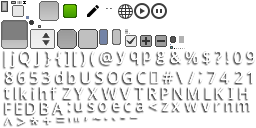
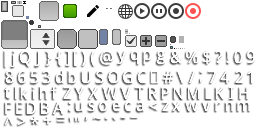
Fixed timer, added record camera interface

Changed region(s): [[0.6562, 0.0, 0.8125, 0.1562]]

diff --git a/core/src/gaia/cu9/ari/gaiaorbit/interfce/FullGui.java b/core/src/gaia/cu9/ari/gaiaorbit/interfce/FullGui.java
@@ -93,7 +93,7 @@ public class FullGui implements IGui, IObserver {
     protected TextField inputPace, searchBox;
     protected Button plus, minus;
     protected ImageButton dateEdit;
-    protected OwnImageButton playstop;
+    protected OwnImageButton playstop, recCamera;
     protected OwnScrollPane focusListScrollPane;
     protected Slider fieldOfView, starBrightness, bloomEffect, ambientLight, cameraSpeed, turnSpeed, rotateSpeed;
     protected CheckBox focusLock, transitColor, onlyObservedStars, computeGaiaScan, lensFlare;
@@ -206,8 +206,27 @@ public class FullGui implements IGui, IObserver {
 	VerticalGroup cameraGroup = new VerticalGroup().align(Align.left);
 
 	Label cameraLabel = new Label(txt("gui.camera"), skin, "header");
-	Label modeLabel = new Label(txt("gui.camera.mode"), skin, "default");
 
+	// Record camera button
+
+	recCamera = new OwnImageButton(skin, "rec");
+	recCamera.setName("rec");
+	recCamera.setChecked(GlobalConf.runtime.RECORD_CAMERA);
+	recCamera.addListener(new EventListener() {
+	    @Override
+	    public boolean handle(Event event) {
+		if (event instanceof ChangeEvent) {
+		    EventManager.getInstance().post(Events.RECORD_CAMERA_CMD, recCamera.isChecked(), true);
+		    return true;
+		}
+		return false;
+	    }
+	});
+	Label recTooltip = new Label(txt("gui.tooltip.reccamera"), skin, "tooltip");
+	tooltips.add(recTooltip);
+	recCamera.addListener(new Tooltip<Label>(recTooltip));
+
+	Label modeLabel = new Label(txt("gui.camera.mode"), skin, "default");
 	int cameraModes = CameraMode.values().length;
 	String[] cameraOptions = new String[cameraModes];
 	for (int i = 0; i < cameraModes; i++) {
@@ -358,7 +377,12 @@ public class FullGui implements IGui, IObserver {
 	    }
 	});
 
-	cameraGroup.addActor(cameraLabel);
+	HorizontalGroup camLabelGroup = new HorizontalGroup();
+	camLabelGroup.space(HPADDING);
+	camLabelGroup.addActor(cameraLabel);
+	camLabelGroup.addActor(recCamera);
+	cameraGroup.addActor(camLabelGroup);
+
 	cameraGroup.addActor(modeLabel);
 	cameraGroup.addActor(cameraMode);
 	cameraGroup.addActor(fovLabel);
@@ -713,8 +737,6 @@ public class FullGui implements IGui, IObserver {
 
 	/** ----TIME GROUP---- **/
 	VerticalGroup timeGroup = new VerticalGroup().align(Align.left).space(3).padTop(3);
-	;
-
 	Label timeLabel = new Label(txt("gui.time"), skin, "header");
 
 	// Time

diff --git a/core/src/gaia/cu9/ari/gaiaorbit/util/GlobalConf.java b/core/src/gaia/cu9/ari/gaiaorbit/util/GlobalConf.java
@@ -149,10 +149,11 @@ public class GlobalConf {
 	public boolean UPDATE_PAUSE;
 	public boolean TIME_ON;
 	public boolean INPUT_ENABLED;
+	public boolean RECORD_CAMERA;
 	public float LIMIT_MAG_RUNTIME;
 
 	public RuntimeConf() {
-	    EventManager.getInstance().subscribe(this, Events.LIMIT_MAG_CMD, Events.INPUT_ENABLED_CMD, Events.TOGGLE_CLEANMODE, Events.TOGGLE_UPDATEPAUSE, Events.TOGGLE_TIME_CMD);
+	    EventManager.getInstance().subscribe(this, Events.LIMIT_MAG_CMD, Events.INPUT_ENABLED_CMD, Events.TOGGLE_CLEANMODE, Events.TOGGLE_UPDATEPAUSE, Events.TOGGLE_TIME_CMD, Events.RECORD_CAMERA_CMD);
 	}
 
 	@Override
@@ -167,6 +168,7 @@ public class GlobalConf {
 	    LIMIT_MAG_RUNTIME = 20;
 	    UPDATE_PAUSE = false;
 	    TIME_ON = false;
+	    RECORD_CAMERA = false;
 
 	}
 
@@ -190,6 +192,10 @@ public class GlobalConf {
 		break;
 	    case TOGGLE_TIME_CMD:
 		toggleTimeOn((Boolean) data[0]);
+		break;
+	    case RECORD_CAMERA_CMD:
+		toggleRecord((Boolean) data[0]);
+		break;
 	    }
 
 	}
@@ -202,6 +208,17 @@ public class GlobalConf {
 		TIME_ON = timeOn;
 	    } else {
 		TIME_ON = !TIME_ON;
+	    }
+	}
+
+	/**
+	 * Toggles the record camera
+	 */
+	public void toggleRecord(Boolean rec) {
+	    if (rec != null) {
+		RECORD_CAMERA = rec;
+	    } else {
+		RECORD_CAMERA = !RECORD_CAMERA;
 	    }
 	}
 

diff --git a/core/src/gaia/cu9/ari/gaiaorbit/event/Events.java b/core/src/gaia/cu9/ari/gaiaorbit/event/Events.java
@@ -76,7 +76,7 @@ public enum Events {
     /** Contains the distance [0] and the viewing angle [1] **/
     FOCUS_INFO_UPDATED,
 
-    /** Issues the command to toggle the time. Contains the boolean indicating the state (may be null) and a boolean indicating whether this coems from the interface. **/
+    /** Issues the command to toggle the time. Contains the boolean indicating the state (may be null) and a boolean indicating whether this comes from the interface. **/
     TOGGLE_TIME_CMD,
     /** Contains the name of the type, a boolean indicating if this comes from the interface and an optional boolean with the state **/
     TOGGLE_VISIBILITY_CMD,
@@ -104,6 +104,8 @@ public enum Events {
     PACE_DIVIDE_CMD,
     /** Contains the new pace **/
     PACE_CHANGED_INFO,
+    /** Issues the command to enable camera recording. Contains the boolean indicating the state (may be null) and a boolean indicating whether this comes from the interface. **/
+    RECORD_CAMERA_CMD,
     /** 
      * Will be displayed in the notifications area (bottom left). Contains an array of strings with the messages and an optional boolean
      * indicating whether the message is permanent so should stay until the next message is received.

diff --git a/core/src/gaia/cu9/ari/gaiaorbit/util/scene2d/Tooltip.java b/core/src/gaia/cu9/ari/gaiaorbit/util/scene2d/Tooltip.java
@@ -15,6 +15,7 @@ public class Tooltip<T extends Actor> implements EventListener {
     private static final Timer timer = new Timer(true);
 
     final T tooltipObject;
+    TimerTask tt;
 
     public Tooltip(T tooltipObject) {
 	this.tooltipObject = tooltipObject;
@@ -26,17 +27,22 @@ public class Tooltip<T extends Actor> implements EventListener {
 	if (event instanceof InputEvent) {
 	    InputEvent ie = (InputEvent) event;
 	    if (ie.getType().equals(Type.enter)) {
-		// Set timer
-		timer.schedule(new TimerTask() {
+		tt = new TimerTask() {
 		    @Override
 		    public void run() {
 			tooltipObject.setPosition(Gdx.input.getX() + 10, Gdx.graphics.getHeight() - Gdx.input.getY());
 			tooltipObject.setVisible(true);
 			tooltipObject.setZIndex(100);
 		    }
-		}, TOOLTIP_DELAY_MS);
+		};
+		// Set timer
+		timer.schedule(tt, TOOLTIP_DELAY_MS);
 	    } else if (ie.getType().equals(Type.exit)) {
 		// Remove
+		if (tt != null) {
+		    tt.cancel();
+		    tt = null;
+		}
 		tooltipObject.setVisible(false);
 	    } else if (ie.getType().equals(Type.mouseMoved)) {
 		if (tooltipObject.isVisible()) {
@@ -46,5 +52,4 @@ public class Tooltip<T extends Actor> implements EventListener {
 	}
 	return false;
     }
-
 }
